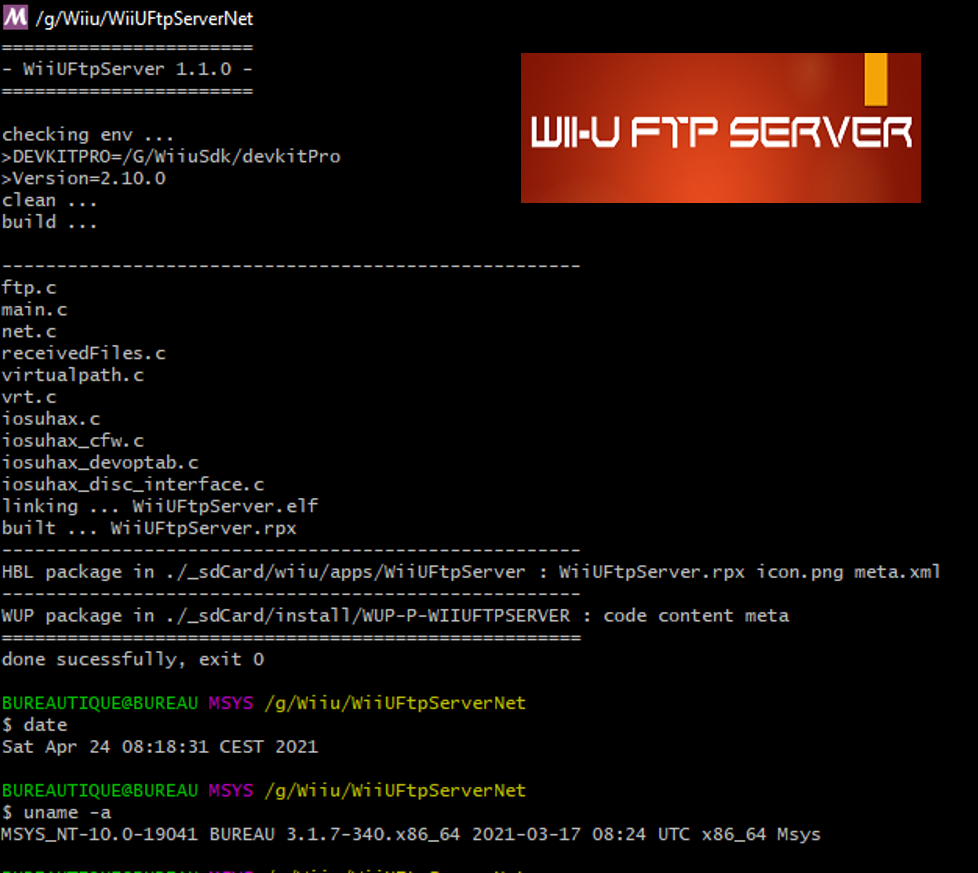
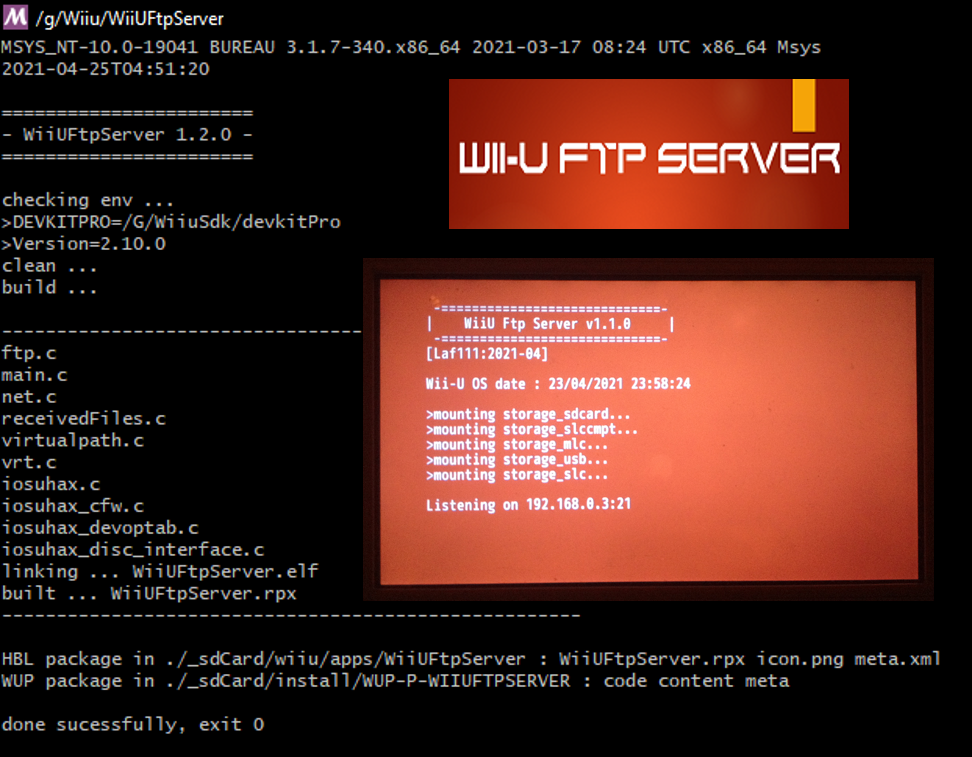
V1-2
> Try to fix timestamps with a date offset
      time_t seems to be a long double timestamp with micro-seconds based on epoch 1980
      The following code return "floating-point type"
        if ((time_t)-1 > 0) {
            // time_t is an unsigned type
        }
        else if ((time_t)1 / 2 > 0) {
            // time_t is a signed integer type
        }
        else {
            // time_t is a floating-point type (I've never seen this)
        }                 
    > set version and date in meta.xml when building

diff --git a/src/ftp.c b/src/ftp.c
@@ -1,6 +1,7 @@
 /****************************************************************************
   * WiiUFtpServer_dl
   * 2021/04/05:V1.0.0:Laf111: import ftp-everywhere code
+  * 2021/04/25:V1.1.1:Laf111: try 1980 epoch for timestamp
  ***************************************************************************/
 #include <malloc.h>
 #include <stdlib.h>
@@ -10,6 +11,7 @@
 #include <errno.h>
 #include <inttypes.h>
 #include <coreinit/time.h>
+#include <time.h>
 
 #include "ftp.h"
 #include "virtualpath.h"
@@ -462,88 +464,37 @@ static int32_t send_nlst(int32_t data_socket, DIR_P *iter) {
 	}
 	return result < 0 ? result : 0;
 }
-/*
-TODO : set 
-static int fsaFd =-1
-+ setFsaFd()
-+ call in main.c
 
-int FSAR(int result) {
-	if ((result & 0xFFFF0000) == 0xFFFC0000)
-		return (result & 0xFFFF) | 0xFFFF0000;
-	else
-		return result;
-}
-
- static int32_t send_list(s32 data_socket, DIR_P *iter) {
-	struct stat st;
-    int32_t result = 0;
-    
-	char filename[MAXPATHLEN] = "";
-	char line[MAXPATHLEN + 56 + CRLF_LENGTH + 1];
-	struct dirent *dirent = NULL;
-    
-	while ((dirent = vrt_readdir(iter)) != 0) {
-        
-        snprintf(filename, sizeof(filename), "%s/%s", iter->path, dirent->d_name);
-        char *vPath=NULL;
-        vPath = realToVolPath(filename);
-		
-        // dim = 13
-		char timestamp[13]="";		
-        uint64_t size = 0;
-
-        IOSUHAX_FSA_Stat fStat;
-        int ret = FSAR(IOSUHAX_FSA_GetStat(fsaFd, vPath, &fStat));        
-        if (ret >= 0) {
-                    
-            size = fStat.size;    
-
-        	time_t mtime = fStat.ctime;
-                
-            strftime(timestamp, sizeof(timestamp), "%b %d  %Y", localtime(&mtime));
-		} else {
-            // still use size
-    		size = fStat.size;
-            // set date to OStime
-			strftime(timestamp, sizeof(timestamp), "%b %d  %Y", timeOs);
-		}      
-
-        // write in lline
-		snprintf(line, sizeof(line), "%crwxr-xr-x	1 0		0	 %10llu %s %s\r\n", (dirent->d_type & DT_DIR) ? 'd' : '-', size, timestamp, dirent->d_name);
-		if ((result = send_exact(data_socket, line, strlen(line))) < 0) {
-			break;
-		}
-	}
-	return result < 0 ? result : 0;
-}
- */
 static int32_t send_list(int32_t data_socket, DIR_P *iter) {
 	struct stat st;
 	int32_t result = 0;
     uint64_t size = 0;
-    
+    time_t time;
 	char filename[MAXPATHLEN] = "";
 	char line[MAXPATHLEN + 56 + CRLF_LENGTH + 1];
 	struct dirent *dirent = NULL;
     
+    // dim = 13
+    char timestamp[13]="";
         
 	while ((dirent = vrt_readdir(iter)) != 0) {
-		char timestamp[13]="";		
 		snprintf(filename, sizeof(filename), "%s/%s", iter->path, dirent->d_name);
-		stat(filename, &st);
-		size = st.st_size;
+		if (stat(filename, &st)==0) {
+            // 86400*(8*365+2*366) = 315532800 (J1980)
+            time = (st.st_mtime/1000000) + 315532800;
+            strftime(timestamp, sizeof(timestamp), "%b %d  %Y", localtime(&time));
+        } else {
+            if (timeOs != NULL) strftime(timestamp, sizeof(timestamp), "%b %d  %Y", timeOs);
+            else strftime(timestamp, sizeof(timestamp), "%b %d  %Y", localtime(NULL));
+        }
+        size = st.st_size;
 
-        // set date to OStime
-        strftime(timestamp, sizeof(timestamp), "%b %d  %Y", timeOs);
-        
-        // write in line
 		snprintf(line, sizeof(line), "%crwxr-xr-x	1 0		0	 %10llu %s %s\r\n", (dirent->d_type & DT_DIR) ? 'd' : '-', size, timestamp, dirent->d_name);
-
 		if ((result = send_exact(data_socket, line, strlen(line))) < 0) {
 			break;
 		}
-	}
+	}    
+        
 	return result < 0 ? result : 0;
 }
 

diff --git a/src/main.c b/src/main.c
@@ -68,6 +68,36 @@ void MCPHookClose() {
     mcp_hook_fd = -1;
 }
 
+
+// TODO : remove checks -----------------------------------------------------------------------
+
+int FSAR(int result) {
+	if ((result & 0xFFFF0000) == 0xFFFC0000)
+		return (result & 0xFFFF) | 0xFFFF0000;
+	else
+		return result;
+}
+
+void displayTs(time_t t) {
+    if ((time_t)-1 > 0) {
+        // time_t is an unsigned type
+        WHBLogPrintf("TS (unsigned) = %ju\n", (uintmax_t)t);
+    }
+    else if ((time_t)1 / 2 > 0) {
+        // time_t is a signed integer type
+        WHBLogPrintf("%TS (signed) = %jd\n", (intmax_t)t);
+    }
+    else {
+        // time_t is a floating-point type (I've never seen this)
+        WHBLogPrintf("TS (floating-point) = %Lf\n", (long double)t);
+    }
+}
+// TODO : remove checks -----------------------------------------------------------------------
+
+
+
+
+
 //--------------------------------------------------------------------------
 /****************************************************************************/
 // MAIN PROGRAM
@@ -154,8 +184,6 @@ int main()
         returnCode = 4;
         goto exit;
     }
-
-    
 
     /*--------------------------------------------------------------------------*/
     /* Starting Network                                                         */
